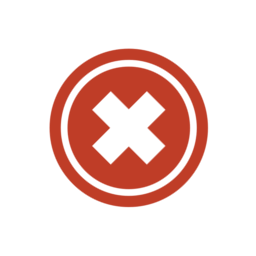
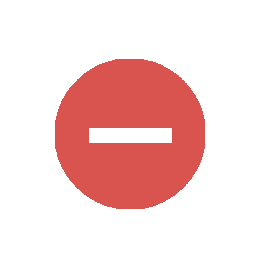
Filter in pfinder case insensitive. New img for including/excluding.

Changed region(s): [[0.1875, 0.1875, 0.8125, 0.8438]]

diff --git a/NetExplorer/templates/NetExplorer/pathway_finder.html b/NetExplorer/templates/NetExplorer/pathway_finder.html
@@ -150,7 +150,7 @@
                         <img class="pfind-form-icon" src="{% static 'Images/check.png' %}"/> Including
                     </div>
                     <div class="panel-body">
-                        <input type="text" class="form-control" name="including" placeholder="Enter Symbol(s), separated by commas">
+                        <input type="text" class="form-control" name="including" placeholder="Enter Symbol">
                     </div>
                 </div>
 
@@ -160,7 +160,7 @@
                         <img class="pfind-form-icon" src="{% static 'Images/uncheck.png' %}"/> Excluding
                     </div>
                     <div class="panel-body">
-                            <input type="text" class="form-control" name="excluding" placeholder="Enter Symbol(s), separated by commas">
+                            <input type="text" class="form-control" name="excluding" placeholder="Enter Symbol">
                     </div>
                 </div>
 

diff --git a/NetExplorer/static/js/filterPathways.js b/NetExplorer/static/js/filterPathways.js
@@ -13,7 +13,7 @@ $("#pathway-filter").submit(function(e){
         return false;
     }
 
-
+    symbol_list = symbol_list.map(function(x){ return x.toUpperCase(); })
     // Iterate through all the panels
     panel:
     for (var i = 0; i < panels.length; i++) {
@@ -30,8 +30,8 @@ $("#pathway-filter").submit(function(e){
 
         nodes:
         for (var j = 0; j < graphobj.nodes.length; j++) {
-            var id      = graphobj.nodes[j].data.id;
-            var homolog = graphobj.nodes[j].data.homolog;
+            var id      = graphobj.nodes[j].data.id.toUpperCase();
+            var homolog = graphobj.nodes[j].data.homolog.toUpperCase();
 
             if (symbol_list.indexOf(id) > -1) {
                 //Node id in the path

diff --git a/NetExplorer/static/js/overlay.js b/NetExplorer/static/js/overlay.js
@@ -9,8 +9,8 @@ $('.small-searchpanel').click(function(){
     var card_data = {
         target  : $(this).attr('target'),
         targetDB: $(this).attr('targetDB'),
-    }
-    elementID = card_data["target"] + "_card";
+    };
+    elementID = card_data.target + "_card";
     $('[id="' + elementID + '"]').slideToggle(450);
     $('.close-overlay').slideToggle(450);
     $('.full-screen-card').slideToggle(450);

diff --git a/NetExplorer/models.py b/NetExplorer/models.py
@@ -100,14 +100,10 @@ class Node(object):
             WHERE n.symbol = '%s'
             AND m.symbol = '%s'
         """ % (self.database, target.database, self.symbol, target.symbol)
-        if including is not None:
-            for inc in including:
-                query += 'AND ANY(x IN nodes(p) WHERE x.symbol = "%s")\n' % (inc)
-        if excluding is not None:
-            for exc in excluding:
-                query += 'AND NOT ANY(x IN nodes(p) WHERE x.symbol = "%s")\n' % (exc)
 
-        query += "return DISTINCT p"
+
+        query += """RETURN DISTINCT p,
+                    reduce(int_prob = 0.0, r IN relationships(p) | int_prob + toFloat(r.int_prob))/length(p) AS total_prob"""
         print(query)
         results = graph.run(query).data()
 
